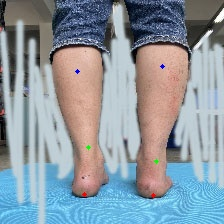
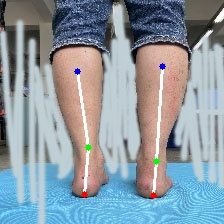
add prediction code

Changed region(s): [[0.6562, 0.2812, 0.75, 0.9062], [0.3125, 0.2812, 0.4062, 0.9062]]

diff --git a/recognize/views.py b/recognize/views.py
@@ -1,7 +1,7 @@
 from os import times
 from django.shortcuts import render
 from django.http import HttpResponse, JsonResponse
-from recognize.source.findPoints import findPoints
+from recognize.source.findPoints import findPoints, predict
 import json
 import cv2
 import requests
@@ -33,21 +33,27 @@ def downloadImg(url):
     return image_name
 
 def resultHandling(image, image_name, points):
+    angle, prediction = predict(points)
     ### save result as image
-    print(points)
-    cv2.circle(image,(points[0][0][1],points[0][0][0]),2,(255,0,0),-1)
-    cv2.circle(image,(points[0][0][1],points[0][0][0]),2,(255,0,0),-1)
-    cv2.circle(image,(points[0][1][1],points[0][1][0]),2,(255,0,0),-1)
-    cv2.circle(image,(points[1][0][1],points[1][0][0]),2,(0,255,0),-1)
-    cv2.circle(image,(points[1][1][1],points[1][1][0]),2,(0,255,0),-1)
-    cv2.circle(image,(points[2][0][1],points[2][0][0]),2,(0,0,255),-1)
-    cv2.circle(image,(points[2][1][1],points[2][1][0]),2,(0,0,255),-1)
+    print(points, angle, predict)
+    cv2.line(image, (points[0][0][1],points[0][0][0]), (points[1][0][1],points[1][0][0]), (255,255,255), 2) 
+    cv2.line(image, (points[1][0][1],points[1][0][0]), (points[2][0][1],points[2][0][0]), (255,255,255), 2)
+    cv2.line(image, (points[0][1][1],points[0][1][0]), (points[1][1][1],points[1][1][0]), (255,255,255), 2) 
+    cv2.line(image, (points[1][1][1],points[1][1][0]), (points[2][1][1],points[2][1][0]), (255,255,255), 2) 
+    cv2.circle(image, (points[0][0][1],points[0][0][0]), 3,(255,0,0), -1)
+    cv2.circle(image, (points[0][1][1],points[0][1][0]), 3,(255,0,0), -1)
+    cv2.circle(image, (points[1][0][1],points[1][0][0]), 3,(0,255,0), -1)
+    cv2.circle(image, (points[1][1][1],points[1][1][0]), 3,(0,255,0), -1)
+    cv2.circle(image, (points[2][0][1],points[2][0][0]), 3,(0,0,255), -1)
+    cv2.circle(image, (points[2][1][1],points[2][1][0]), 3,(0,0,255), -1)
     cv2.imwrite("media/image/"+image_name, image)
 
     dict = {'code':200, 
             'msg':'识别成功',
             'AnkleInfo':{'AnkleResultURL':'media/image/'+image_name,
-                         'leftAnkleInfo':{'top':{   'x':str(points[0][0][0]),
+                         'rightAnkleInfo':{'angle': angle[0],
+                                          'prediction': prediction[0],
+                                             'top':{'x':str(points[0][0][0]),
                                                     'y':str(points[0][0][1])        
                                           },
                                           'middle':{'x':str(points[1][0][0]),
@@ -57,7 +63,9 @@ def resultHandling(image, image_name, points):
                                                     'y':str(points[2][0][1])
                                           }
                          },
-                         'rightAnkleInfo':{'top':{  'x':str(points[0][1][0]),
+                         'leftAnkleInfo':{'angle': angle[1],
+                                           'prediction': prediction[1],
+                                            'top':{  'x':str(points[0][1][0]),
                                                     'y':str(points[0][1][1])        
                                           },
                                           'middle':{'x':str(points[1][1][0]),

diff --git a/recognize/source/findPoints.py b/recognize/source/findPoints.py
@@ -1,7 +1,8 @@
 # %%
 from recognize.source.contours import findContours
 from recognize.source.points import firstPoint, secondPoint, thirdPoint
-
+import numpy as np
+from math import acos, pi, sqrt
 # %%
 def findPoints(image):
 
@@ -67,6 +68,83 @@ def findPoints(image):
 
 
 # %%
+def angleCalculate(points):
 
+    """计算三个关键点连成的两条线段组成的角度
+
+        1.将关键点坐标组成两个向量，利用向量相关公式计算角度。
+
+        Parameters
+        ----------
+        points : numpy.array
+            关键点的像素点坐标
+
+        Returns
+        -------
+        int
+
+        """
+
+    points = np.asarray(points)
+    angle = [0, 0]
+
+    vl1 = points[1][0]-points[0][0]
+    print("vl1:{}".format(vl1))
+    vl2 = points[2][0]-points[1][0]
+    print("vl2:{}".format(vl2))
+    vr1 = points[1][1]-points[0][1]
+    print("vr1:{}".format(vr1))
+    vr2 = points[2][1]-points[1][1]
+    print("vr2:{}".format(vr2))
+    
+    vl11 = vl1[0]*vl1[0] + vl1[1]*vl1[1]
+    vl22 = vl2[0]*vl2[0] + vl2[1]*vl2[1]
+    vl12 = vl1[0]*vl2[0] + vl1[1]*vl2[1]
+    try:
+        angle[0] = 180 - int(acos(vl12/sqrt(vl11)/sqrt(vl22))/pi*180)
+    except:
+        print("Zero divisor!")
+
+    vr11 = vr1[0]*vr1[0] + vr1[1]*vr1[1]
+    vr22 = vr2[0]*vr2[0] + vr2[1]*vr2[1]
+    vr12 = vr1[0]*vr2[0] + vr1[1]*vr2[1]
+    try:
+        angle[1] = 180 - int(acos(vr12/sqrt(vr11)/sqrt(vr22))/pi*180)
+    except:
+        print("Zero divisor!")
+        
+    return angle
+
+# %%
+def predict(points):
+
+    """预测是否存在足内旋或者足外旋
+
+        1.通过调用angleCalculate()来计算角度。\n
+
+        Parameters
+        ----------
+        points : numpy.array
+            关键点的像素点坐标
+
+        Returns
+        -------
+        int
+        str
+
+        """
+
+    angle = angleCalculate(points)
+    prediction = ["Normal", "Normal"]
+    if angle[0]>0 and angle[0] < 170:
+        prediction[0] = "Pronation"
+    if angle[0] > 190:
+        prediction[0] = "Supination"
+    if angle[1]>0 and angle[1] < 170:
+        prediction[1] = "Pronation"
+    if angle[1] > 190:
+        prediction[1] = "Supination"
+
+    return angle, prediction
 
 
